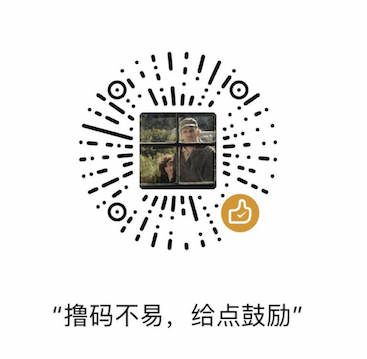
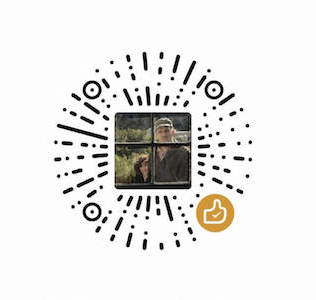
feat: reward update

Changed region(s): [[0.1424, 0.15, 0.8259, 0.93], [0.769, 0.57, 0.7975, 0.6], [0.7405, 0.63, 0.769, 0.66]]

diff --git a/src/components/InfoModal.js b/src/components/InfoModal.js
@@ -34,9 +34,24 @@ const StyledModal = styled.section`
   .reward {
     width: 14rem;
     align-self: center;
-    border: 1px solid #222;
-    border-radius: 0.4rem;
-    margin-bottom: 0.8rem;
+    margin-bottom: 1.8rem;
+    position: relative;
+    img {
+      width: 100%;
+      border: 1px solid #222;
+    }
+    &:after {
+      content: attr(title);
+      display: block;
+      position: absolute;
+      left: 50%;
+      transform: translateX(-50%);
+      width: 90%;
+      text-align: left;
+      font-size: 0.8rem;
+      bottom: -1rem;
+      text-shadow: 0 0 8px #a09090;
+    }
   }
 
   .line {
@@ -80,8 +95,9 @@ const Modal = () => (
         Fork
       </GitHubButton>
     </div>
-    <img src={ImageReward} alt="reward" className="reward" />
-
+    <div className="reward" title="如果有帮住到您，欢迎打赏~">
+      <img src={ImageReward} alt="reward" title="如果有帮住到您，欢迎打赏~" />
+    </div>
     <div className="copyright">
       <span> Copyright © {new Date().getFullYear()} By </span>
       <a rel="noopener noreferrer" href="https://yangerxiao.com" target="_blank">
